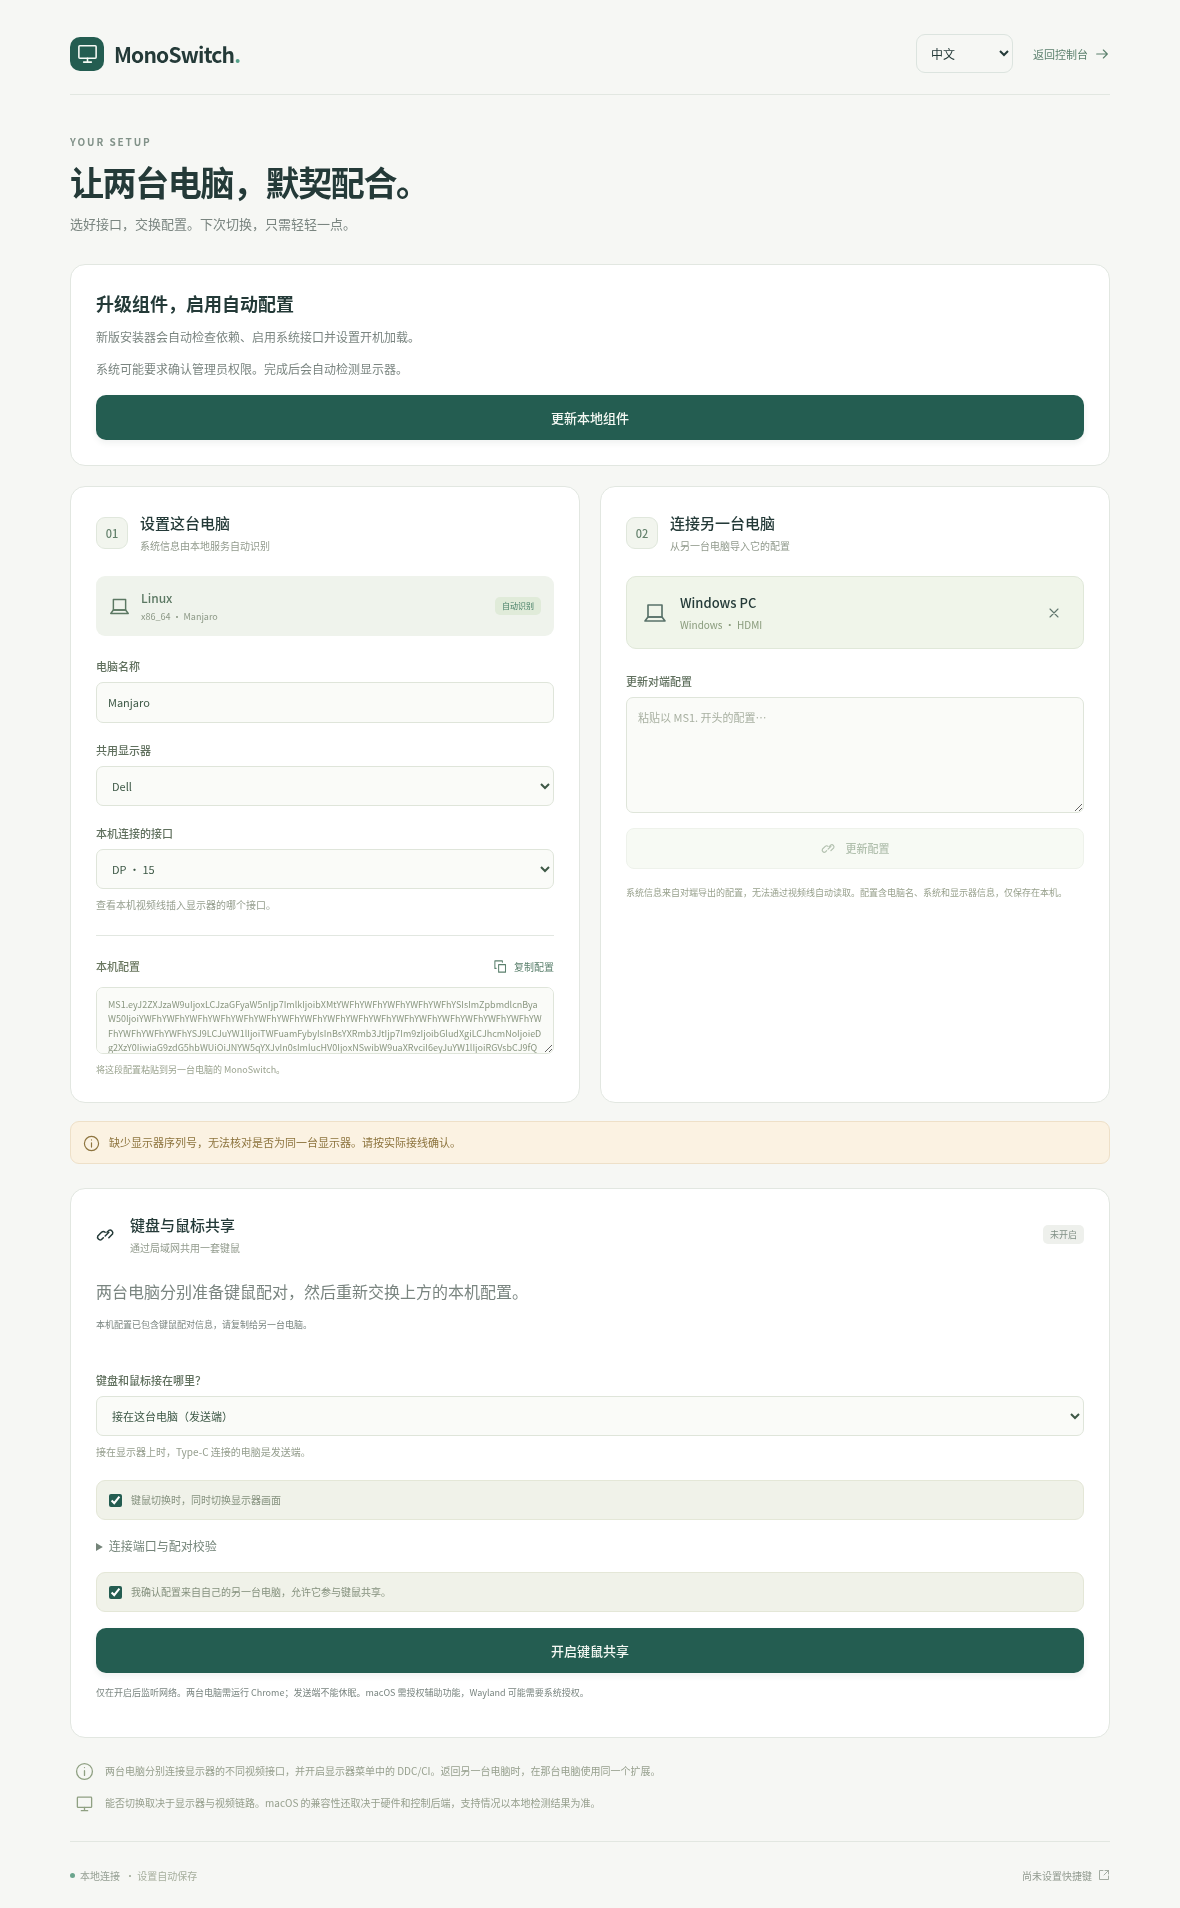
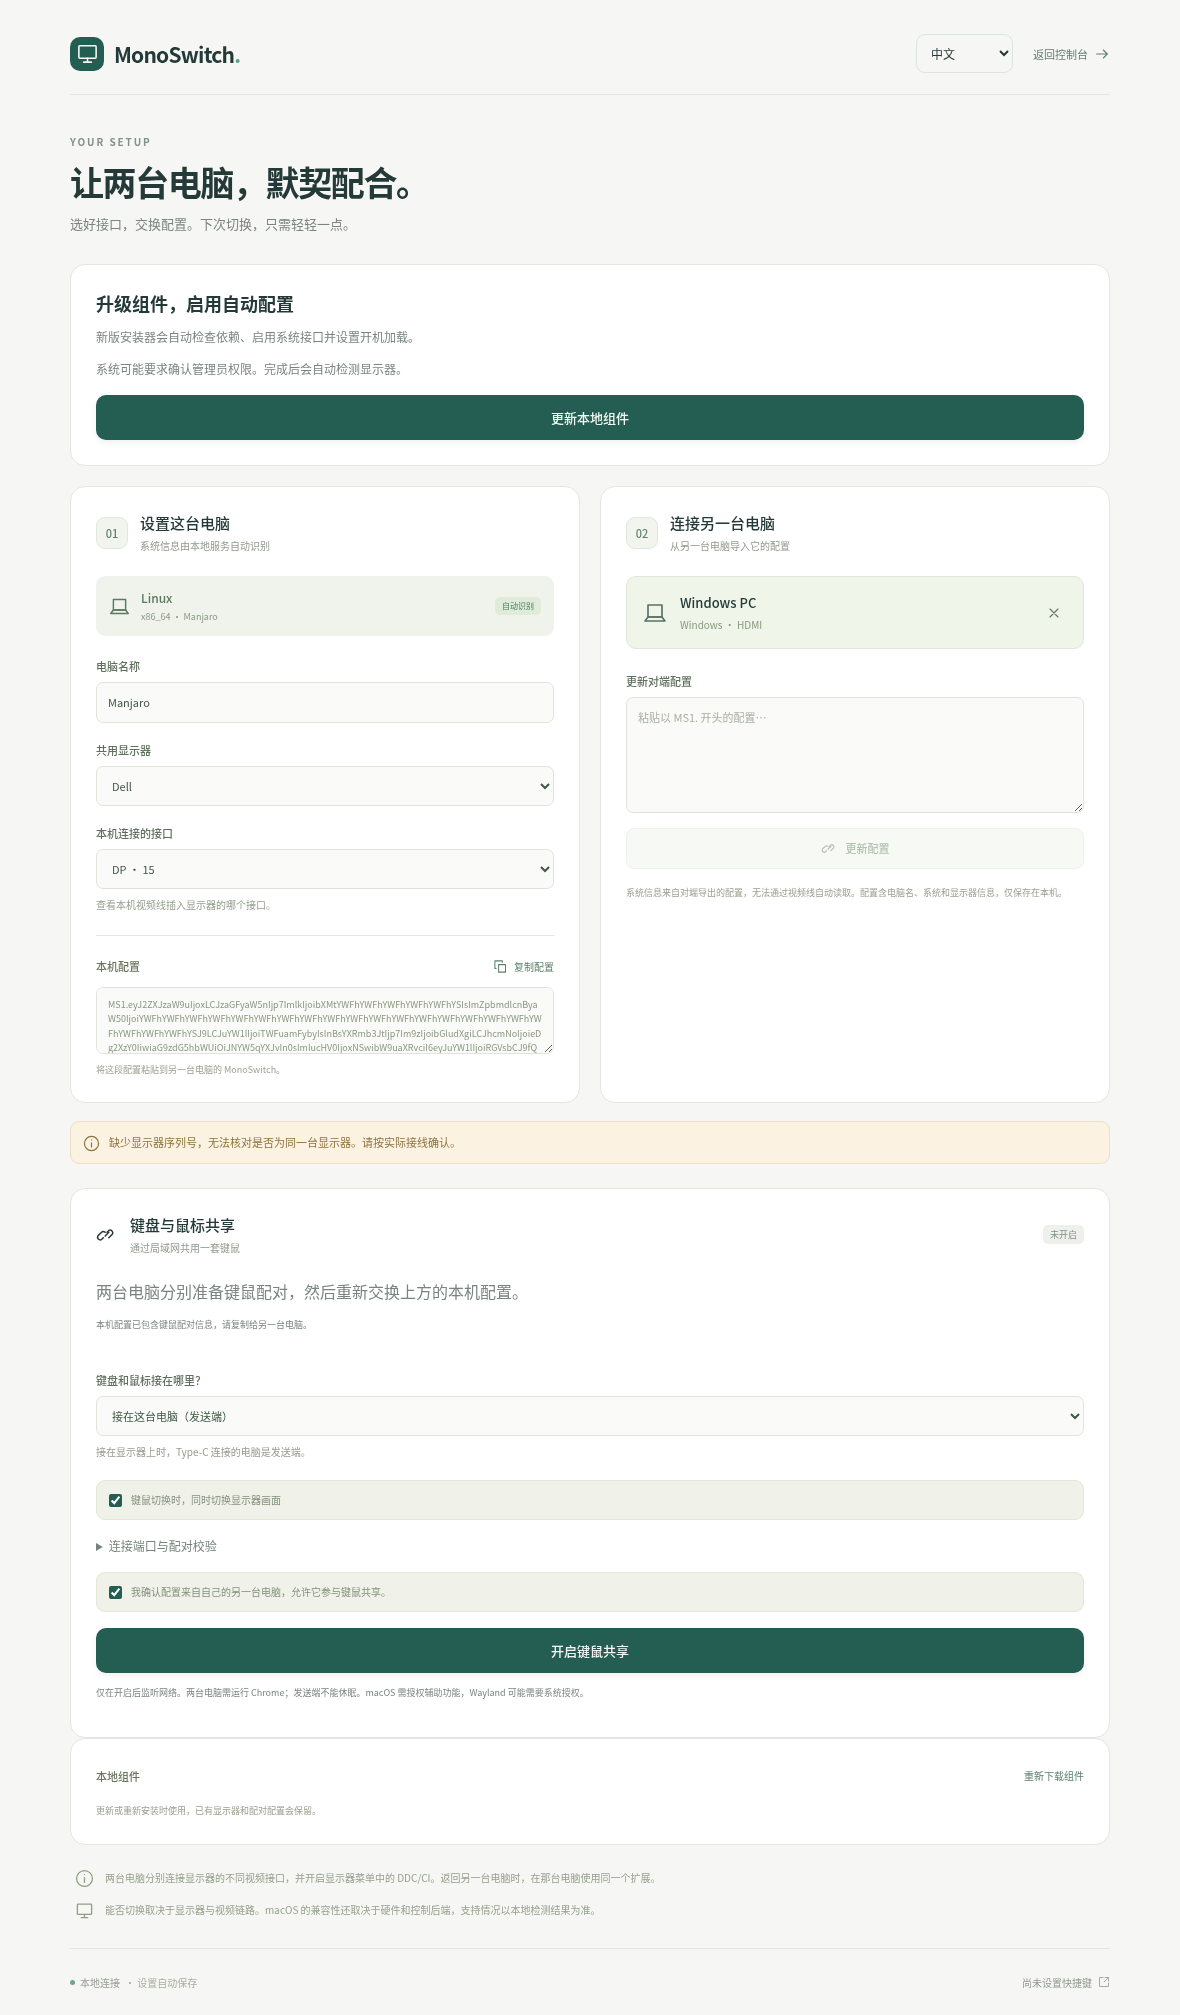
fix: explain unmet keyboard sharing requirements

diff --git a/extension/src/SharingPanel.vue b/extension/src/SharingPanel.vue
@@ -21,9 +21,19 @@ let timer: ReturnType<typeof setTimeout> | undefined
 let disposed = false
 let loaded = false
 const paired = computed(() => Boolean(state.value?.identity && props.settings.peer?.sharing))
-const canStart = computed(() => paired.value && state.value?.installed && confirmed.value &&
-  (!follow.value || (props.settings.displayId && props.settings.localInput !== null)) &&
-  (role.value === 'server' || address.value.trim()))
+const blockers = computed(() => {
+  const reasons: string[] = []
+  if (!state.value?.installed) reasons.push('尚未检测到 Deskflow，请安装键鼠组件后重新检测。')
+  if (!state.value?.identity) reasons.push('请先点击“准备键鼠配对”，生成本机身份。')
+  if (!props.settings.peer?.sharing) reasons.push('对端配置不含键鼠身份：请在另一台电脑准备键鼠配对后，重新复制并导入它的配置。')
+  if (paired.value && !confirmed.value) reasons.push('请勾选上方的配对确认，允许另一台电脑参与共享。')
+  if (follow.value && (!props.settings.displayId || props.settings.localInput === null)) reasons.push('画面联动需要选择本机显示器和输入接口；也可先取消画面联动，仅测试键鼠。')
+  if (role.value === 'client' && !address.value.trim()) reasons.push('请填写发送端的局域网 IP。')
+  if (!Number.isInteger(port.value) || port.value < 1024 || port.value > 65535) reasons.push('连接端口需为 1024 到 65535 的整数。')
+  return reasons
+})
+const canStart = computed(() => blockers.value.length === 0)
+
 
 function apply(value: SharingStatus) {
   state.value = value
@@ -155,6 +165,9 @@ onUnmounted(() => { disposed = true; clearTimeout(timer) })
           </details>
           <p v-if="!paired" class="privacy-note">{{ t('请先完成两台电脑的键鼠配对信息交换。') }}</p>
           <label v-else class="confirmation"><input v-model="confirmed" type="checkbox" :disabled="pending" /><span>{{ t('我确认配置来自自己的另一台电脑，允许它参与键鼠共享。') }}</span></label>
+          <div v-if="blockers.length" class="message warning" role="status">
+            <ul><li v-for="reason in blockers" :key="reason">{{ t(reason) }}</li></ul>
+          </div>
           <button class="primary-button" :disabled="!canStart || pending" @click="start">{{ t(pending ? '正在处理…' : '开启键鼠共享') }}</button>
           <p class="privacy-note">{{ t('仅在开启后监听网络。两台电脑需运行 Chrome；发送端不能休眠。macOS 需授权辅助功能，Wayland 可能需要系统授权。') }}</p>
         </template>

diff --git a/extension/src/locales/en.ts b/extension/src/locales/en.ts
@@ -1,4 +1,12 @@
 export const english: Record<string, string> = {
+  "尚未检测到 Deskflow，请安装键鼠组件后重新检测。": "Deskflow was not detected. Install the input component and check again.",
+  "请先点击“准备键鼠配对”，生成本机身份。": "Click Prepare input pairing to create this computer’s identity.",
+  "对端配置不含键鼠身份：请在另一台电脑准备键鼠配对后，重新复制并导入它的配置。": "The peer profile has no input identity. Prepare input pairing on the other computer, then copy and import its profile again.",
+  "请勾选上方的配对确认，允许另一台电脑参与共享。": "Check the pairing confirmation above to allow the other computer to share input.",
+  "画面联动需要选择本机显示器和输入接口；也可先取消画面联动，仅测试键鼠。": "Display linking needs a local display and input. You can disable linking to test keyboard and mouse sharing alone.",
+  "请填写发送端的局域网 IP。": "Enter the sender’s local network IP address.",
+  "连接端口需为 1024 到 65535 的整数。": "The port must be an integer from 1024 to 65535.",
+
   "重新下载组件": "Download component again",
   "本地组件": "Local component",
   "返回设置": "Back to settings",
